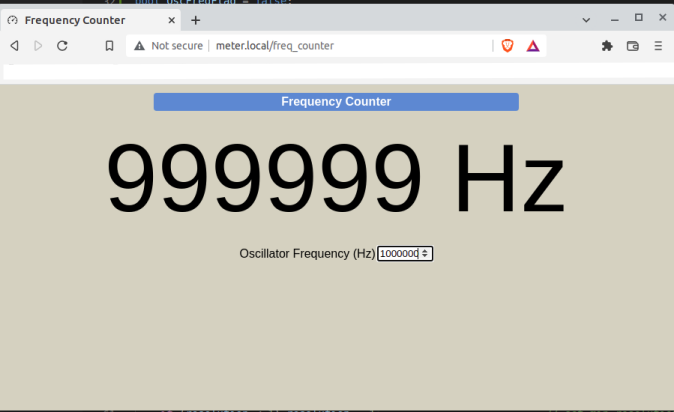
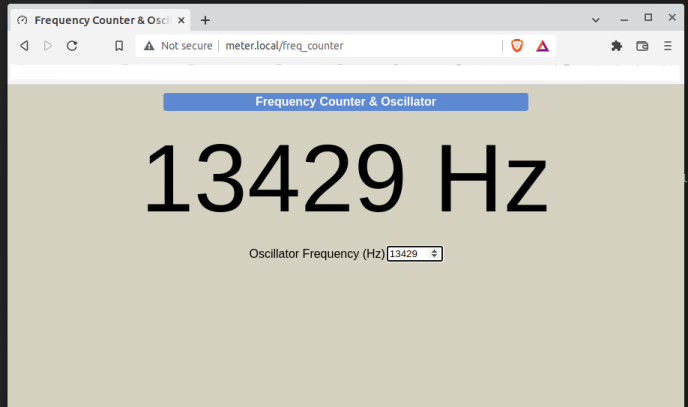
update readme

diff --git a/data/freq_counter.html b/data/freq_counter.html
@@ -1,7 +1,7 @@
 <!DOCTYPE HTML>
 <html>
 <head>
-<title>Frequency Counter</title>
+<title>Frequency Counter & Oscillator</title>
 <meta name="viewport" content="width=device-width, initial-scale=1">
 <meta charset="UTF-8">
 <link rel="stylesheet" type="text/css" href="style.css">
@@ -9,7 +9,7 @@
 <body>
 
 <div style="align-items:center; width:60%; margin:auto;">	
-<h1>Frequency Counter</h1>
+<h1>Frequency Counter & Oscillator</h1>
 </div>
 
 <p>

diff --git a/data/index.html b/data/index.html
@@ -31,7 +31,7 @@
 
 <p>
 <div style="text-align:center;">
-	<a href="/freq_counter"><button style="width:250px;">Frequency Counter</button></a>
+	<a href="/freq_counter"><button style="width:250px;">Frequency Counter & Oscillator</button></a>
 </div>
 
 <p>

diff --git a/README.md b/README.md
@@ -169,9 +169,10 @@ Maximum and minimum current values are more accurately captured.
 
 <img src="docs/freq_counter.png">
 
-* 3.3V TTL level input signal
-* 1Hz to 40MHz range with 1Hz resolution
-* Connect oscillator output signal to frequency counter input for counter verification
+* 3.3V TTL level counter input on gpio 34
+* Counter has 1Hz to 40MHz range with 1Hz resolution
+* Independent clock signal generator output on gpio pin 33
+* Connect generator signal output to frequency counter input for counter verification. In the snapshot above, the generator output has been set to 13429Hz and connected to the counter input pin.
 
 # Build Environment
 * Ubuntu 20.04 LTS amdx64
